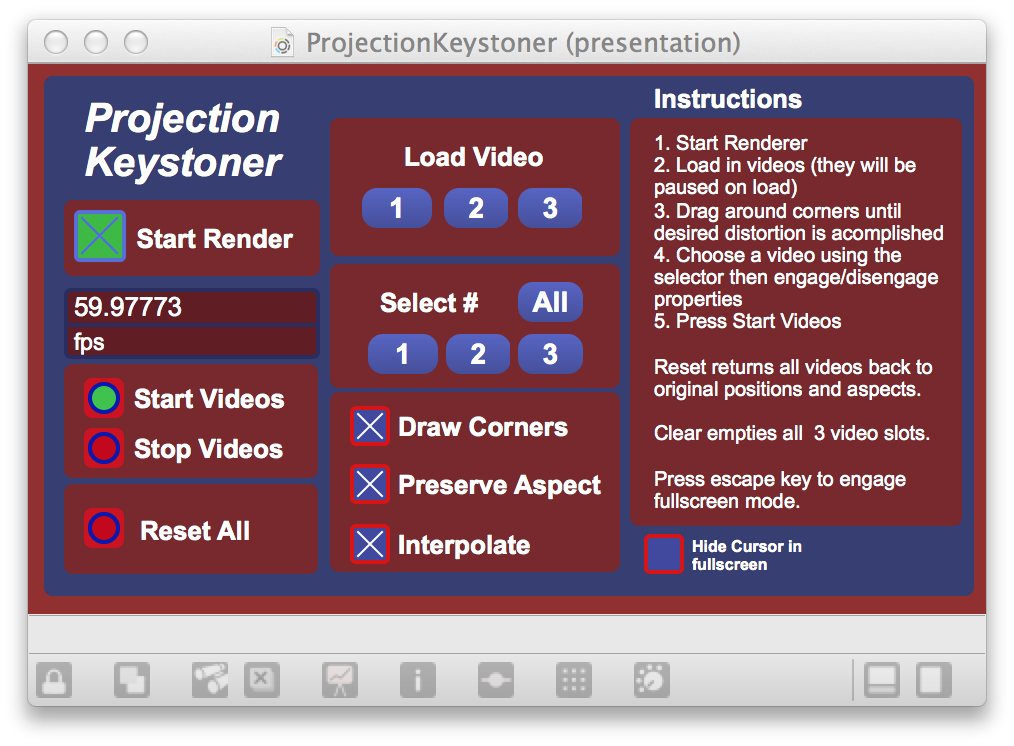
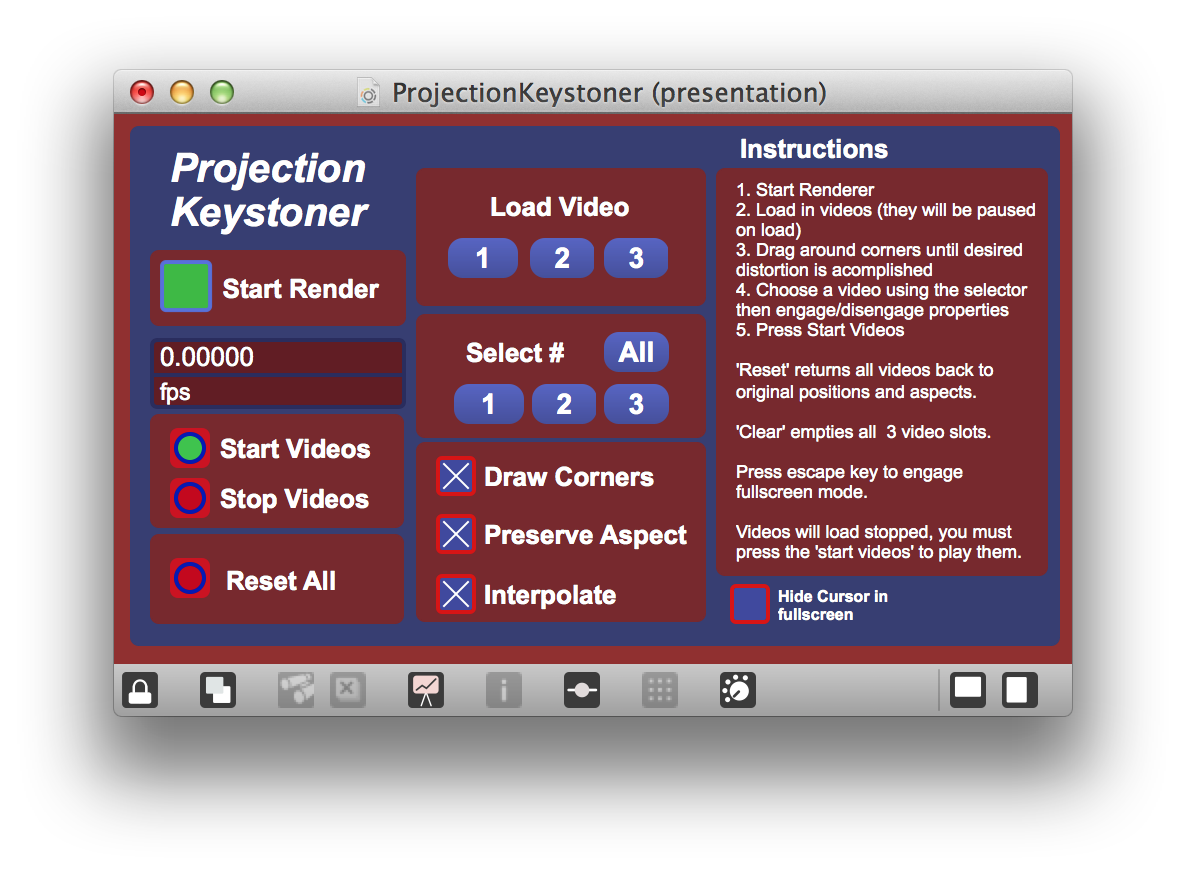
clearer instructions

diff --git a/README.md b/README.md
@@ -5,6 +5,22 @@ A simple projection keystoner to help in complex projection setups (especially i
 ####Why 3 video slots?
 in order to easily project with one projector into a 2 or 3 point corner was the idea, but i'm sure you can figure out more uses!
 
+####Instructions
+1. Start Renderer
+2. Load in videos (they will be paused on load)
+3. Drag around corners until desired distortion is acomplished
+4. Choose a video using the selector then engage/disengage properties
+5. Press Start Videos
+
+'Reset' returns all videos back to original positions and aspects.
+
+'Clear' empties all  3 video slots.
+
+Press escape key to engage fullscreen mode.
+
+Videos will load stopped, you must press the 'start videos' to play them.
+
+
 
 ####screenshot
 
